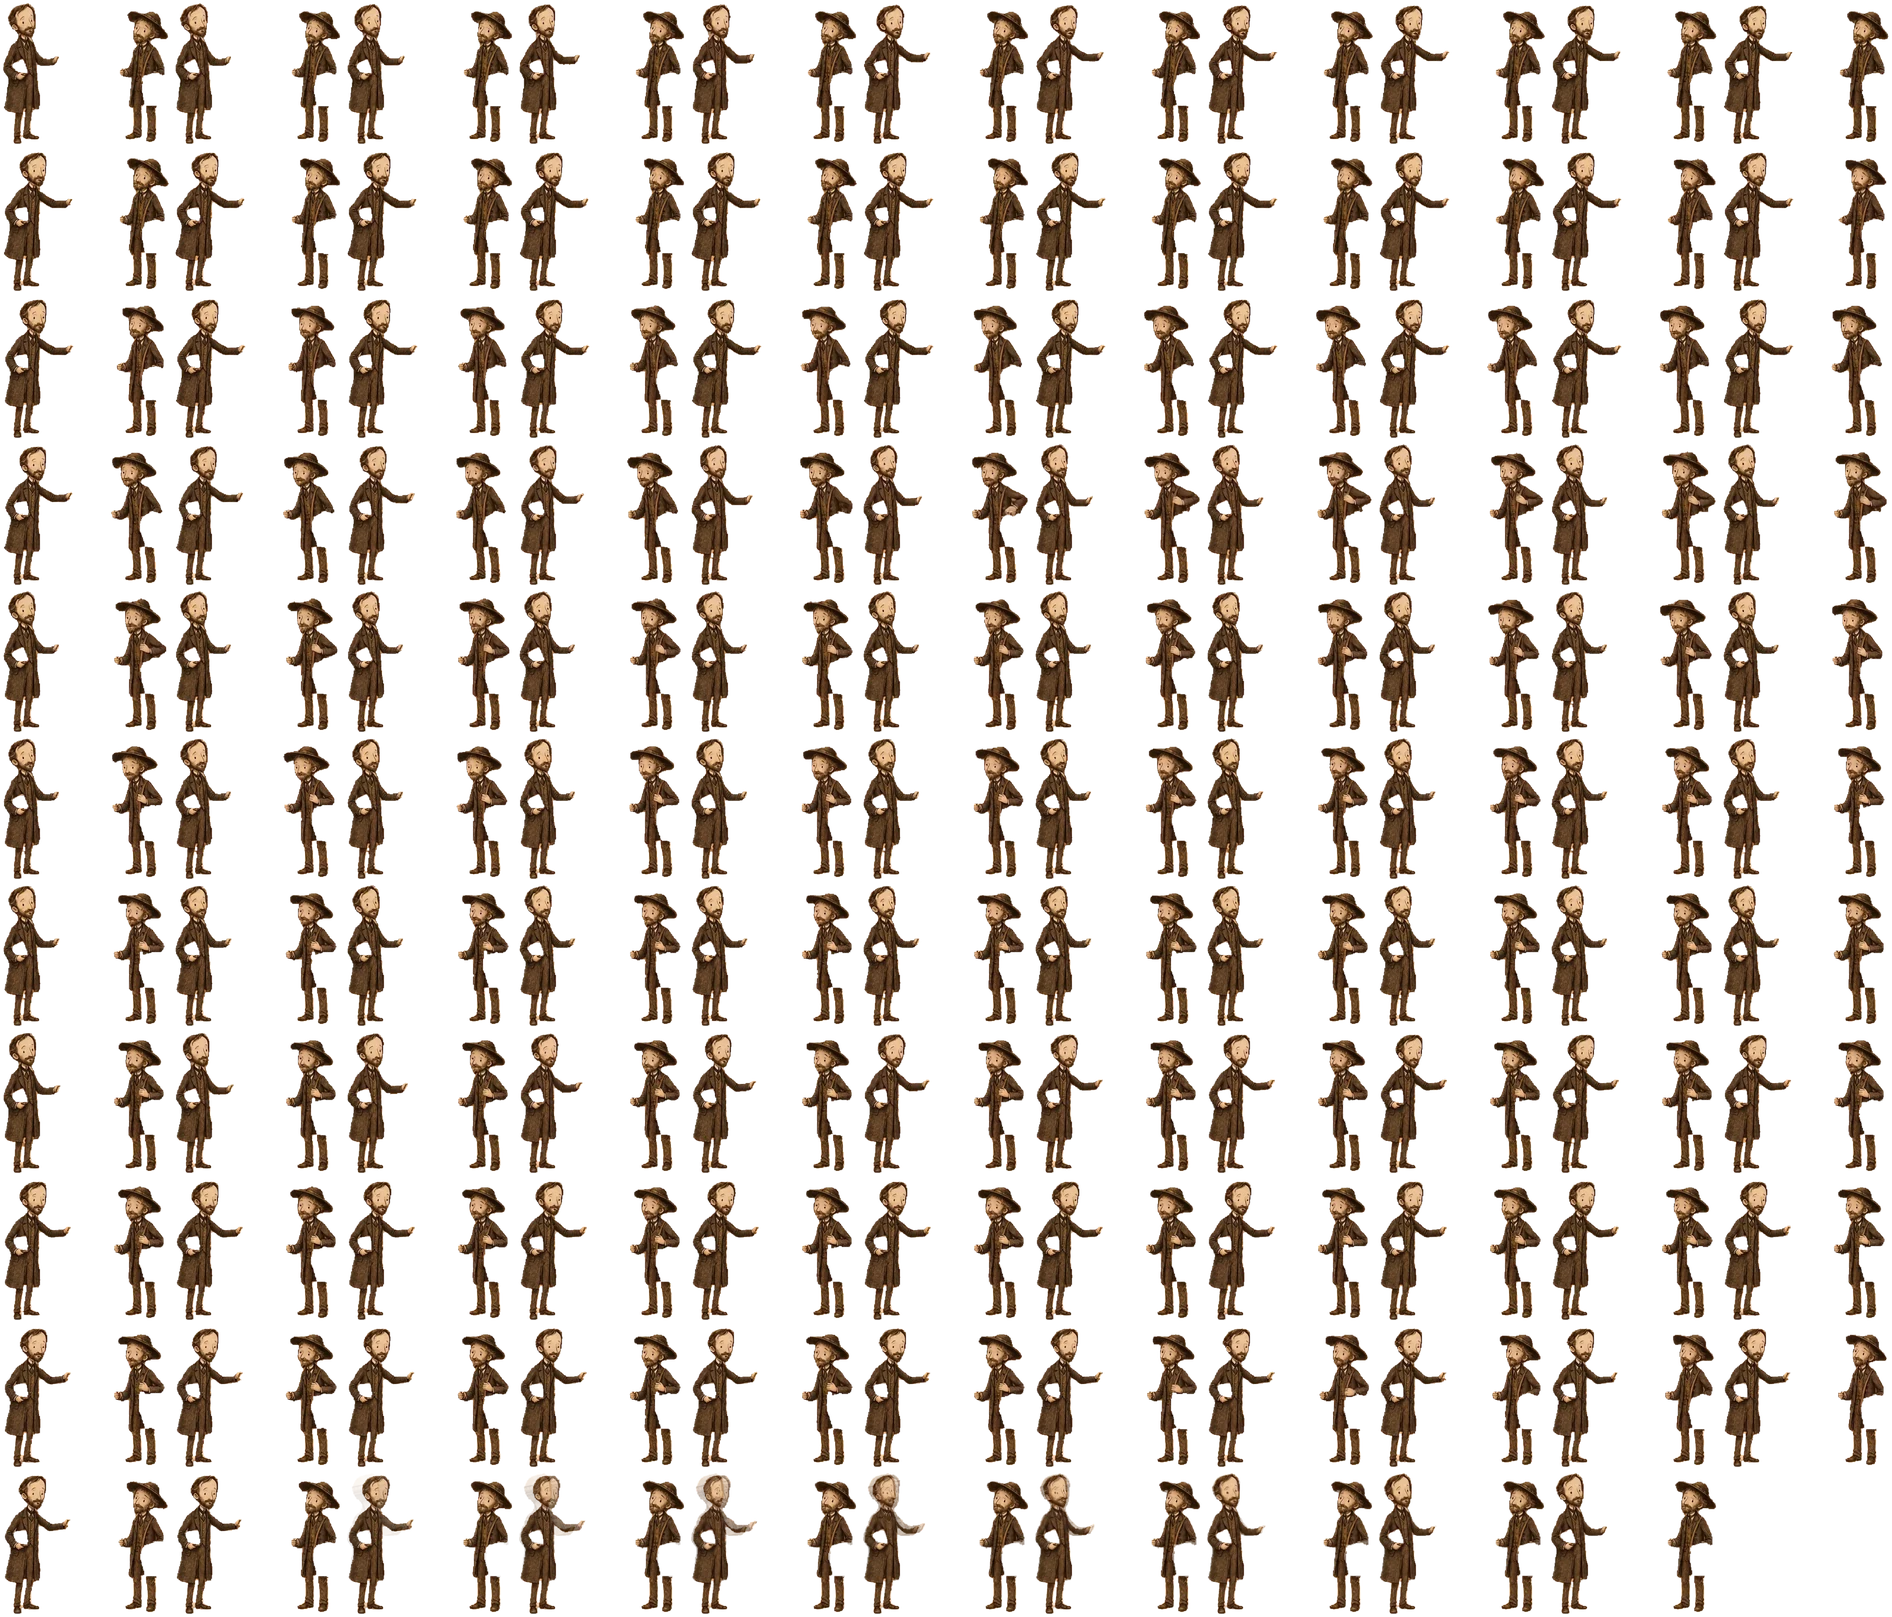
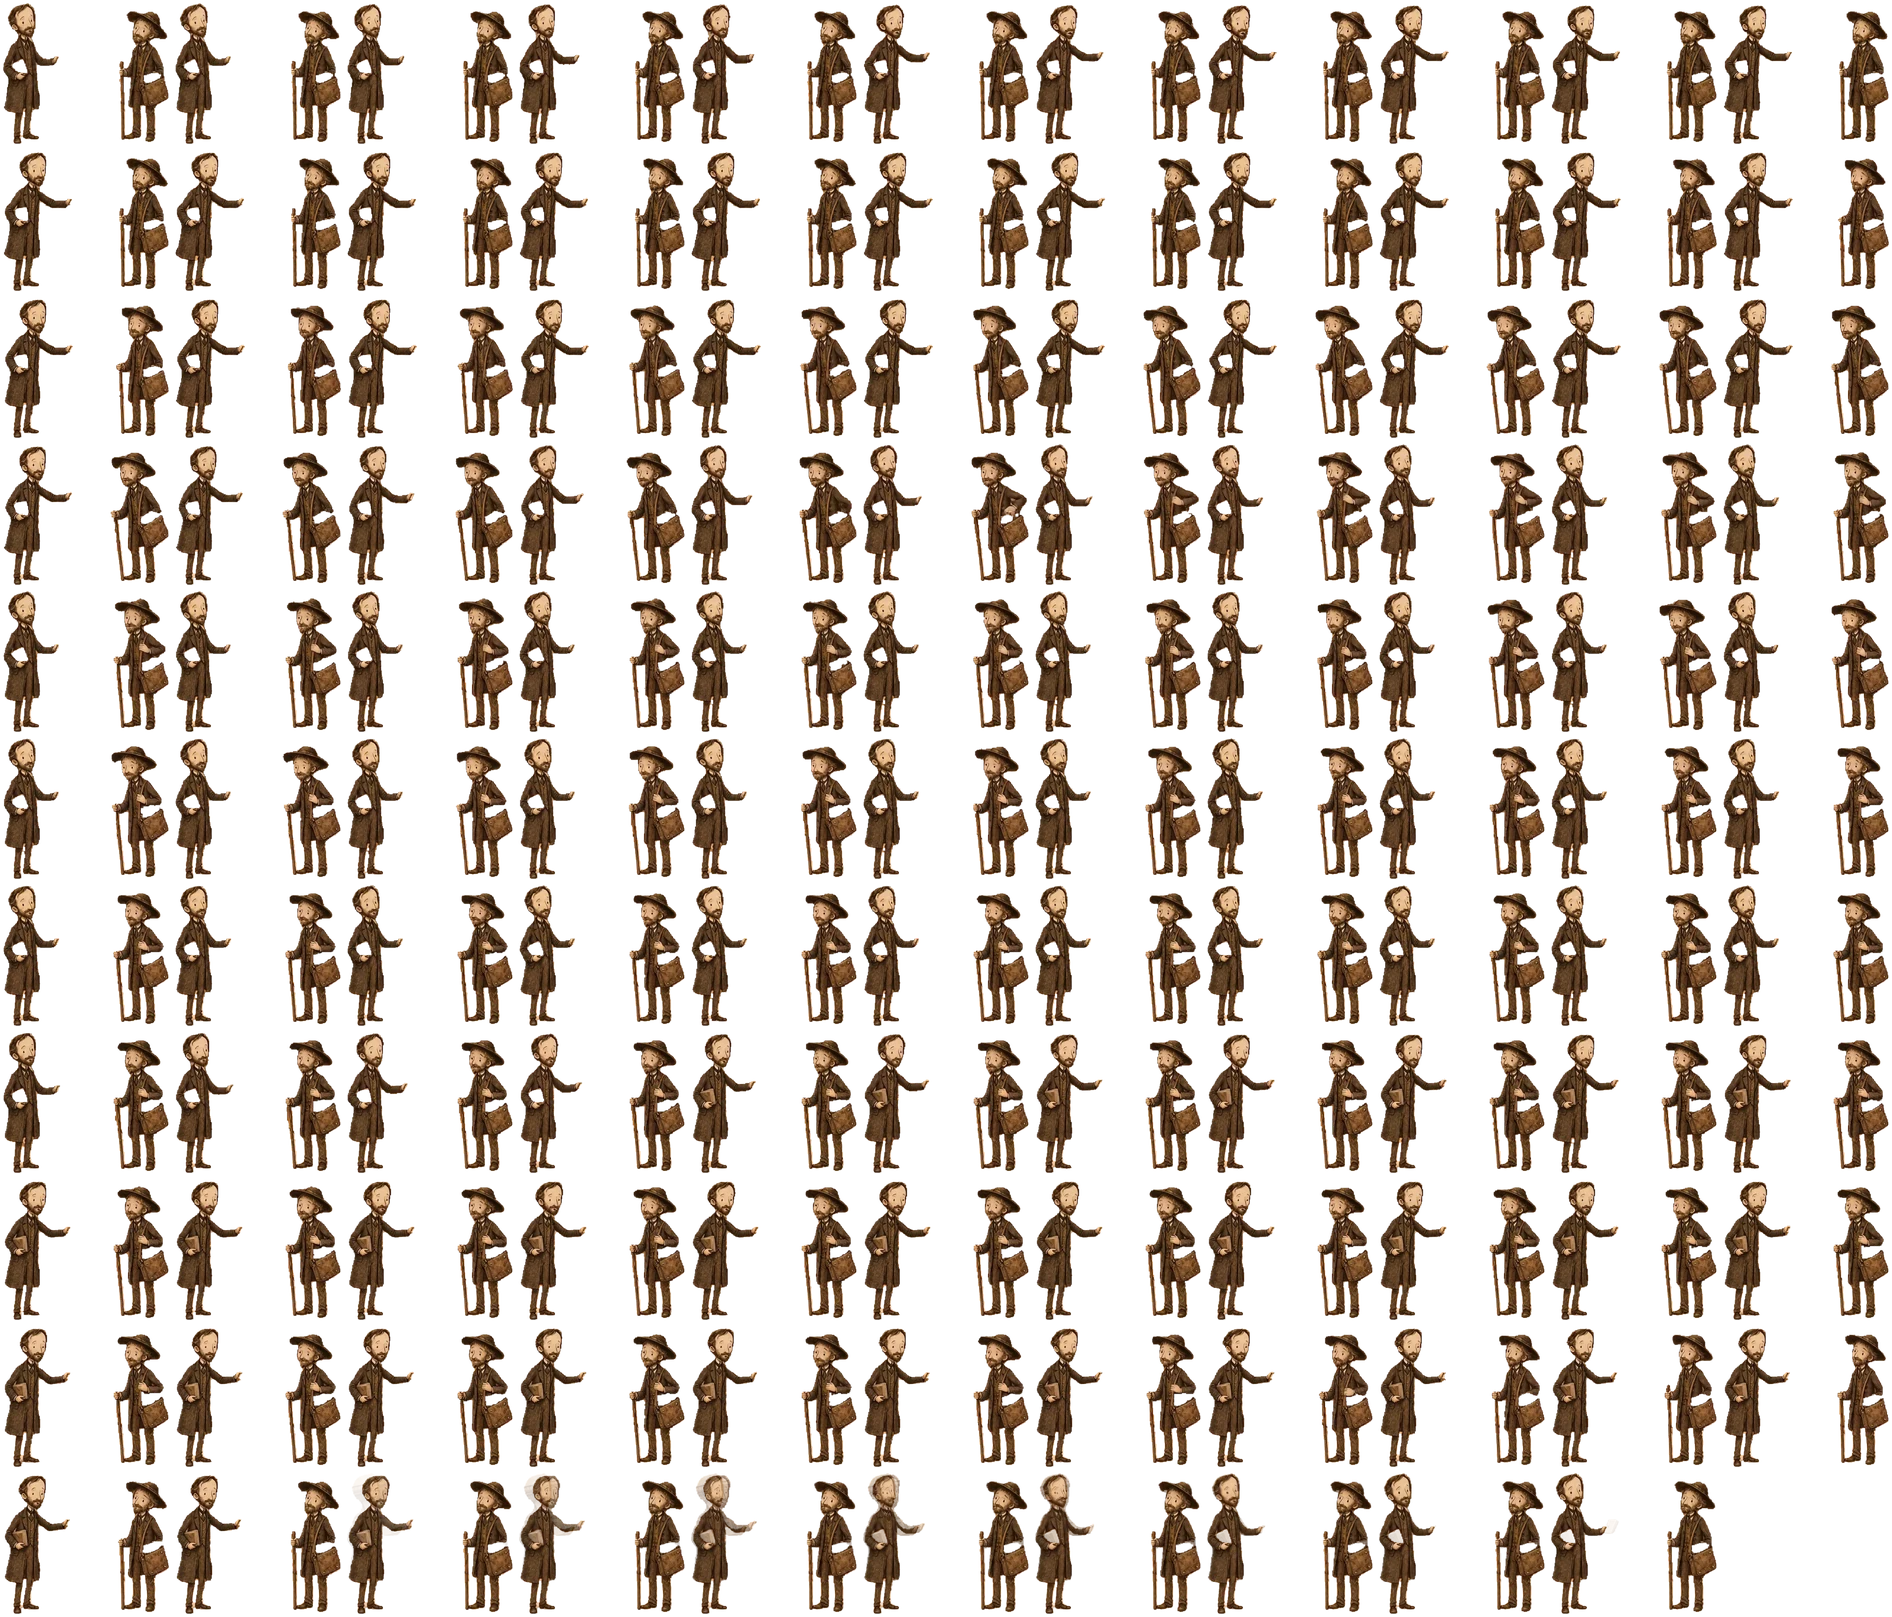
fix(world): cut the Bible peddler whole in the Clercs scene
The scene's mask asked only for people and the pamphlet, so SAM lost
the peddler's satchel of books and his walking stick, and kept a piece
of crate beside his leg. The mask now names the satchel and the stick,
with a lower detection threshold for this scene.

diff --git a/apps/world/scripts/valence/pipeline/sam-video.py b/apps/world/scripts/valence/pipeline/sam-video.py
@@ -11,7 +11,7 @@ def run(job):
     if not os.path.exists(inp12):
         subprocess.run(['ffmpeg','-v','error','-y','-i',video,'-an','-vf','fps=12','-c:v','libx264','-crf','14','-pix_fmt','yuv420p',inp12],check=True)
     if os.path.exists(os.path.join(d, 'mask', 'output-0.mp4')): return f"{job['id']}: mask exists"
-    inp = {"video_url": "file:" + inp12, "prompt": job['maskPrompt'], "apply_mask": False, "video_output_type": "X264 (.mp4)", "detection_threshold": 0.4}
+    inp = {"video_url": "file:" + inp12, "prompt": job['maskPrompt'], "apply_mask": False, "video_output_type": "X264 (.mp4)", "detection_threshold": job.get("maskThreshold", 0.4)}
     p = os.path.join(d, 'mask-input.json'); json.dump(inp, open(p, 'w'), indent=2)
     r = subprocess.run(['node', os.path.join(here, '..', 'fal-run.mjs'), 'fal-ai/sam-3/video', p, os.path.join(d, 'mask'), 'run'], capture_output=True, text=True)
     return f"{job['id']}: {r.returncode} {r.stdout.strip()[-160:]} {r.stderr.strip()[-400:]}"
